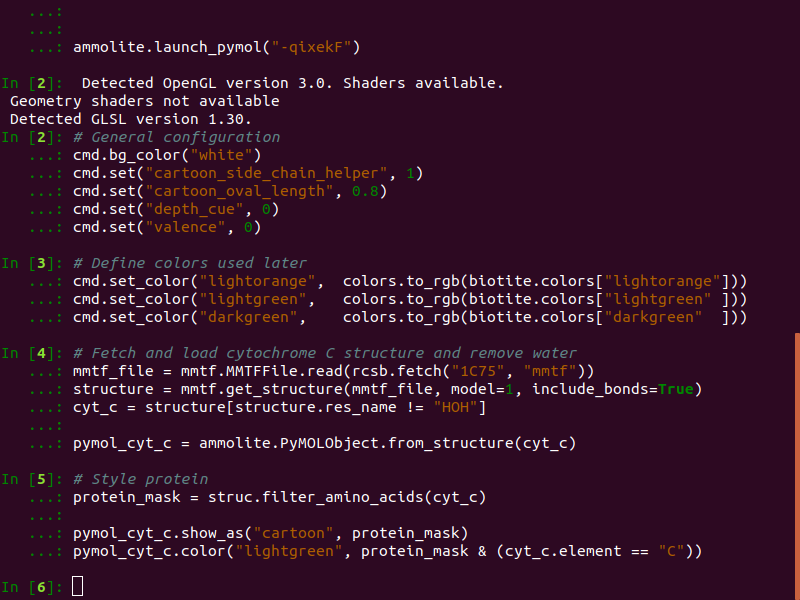
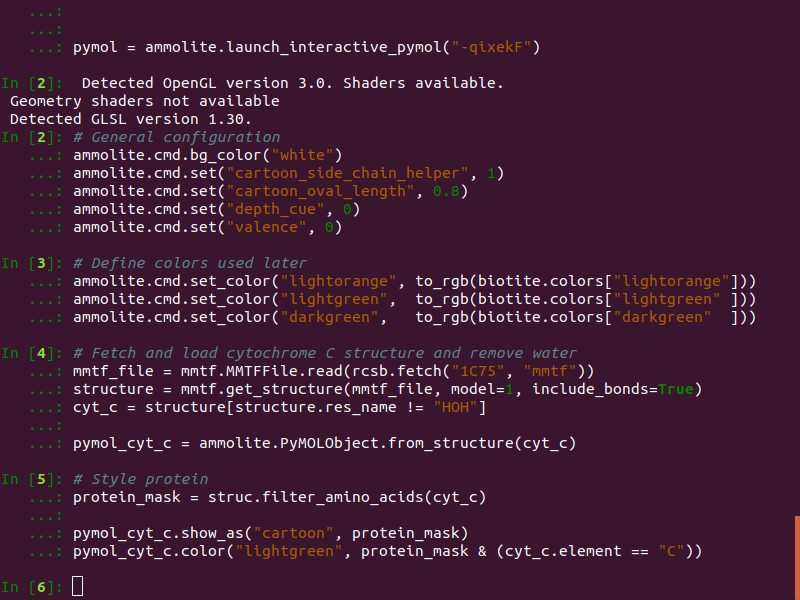
Updated demo

diff --git a/doc/demo/demo.py b/doc/demo/demo.py
@@ -1,30 +1,29 @@
 import numpy as np
-import matplotlib.colors as colors
+from matplotlib.colors import to_rgb
 import biotite
 import biotite.structure as struc
 import biotite.structure.io.mmtf as mmtf
 import biotite.database.rcsb as rcsb
 import ammolite
-from pymol import cmd
 
 
-ammolite.launch_pymol("-qixekF")
+pymol = ammolite.launch_interactive_pymol("-qixekF")
 
 #----------------------------------------------------------------------#
 
 # General configuration
-cmd.bg_color("white")
-cmd.set("cartoon_side_chain_helper", 1)
-cmd.set("cartoon_oval_length", 0.8)
-cmd.set("depth_cue", 0)
-cmd.set("valence", 0)
+ammolite.cmd.bg_color("white")
+ammolite.cmd.set("cartoon_side_chain_helper", 1)
+ammolite.cmd.set("cartoon_oval_length", 0.8)
+ammolite.cmd.set("depth_cue", 0)
+ammolite.cmd.set("valence", 0)
 
 #----------------------------------------------------------------------#
 
 # Define colors used later
-cmd.set_color("lightorange",  colors.to_rgb(biotite.colors["lightorange"]))
-cmd.set_color("lightgreen",   colors.to_rgb(biotite.colors["lightgreen" ]))
-cmd.set_color("darkgreen",    colors.to_rgb(biotite.colors["darkgreen"  ]))
+ammolite.cmd.set_color("lightorange", to_rgb(biotite.colors["lightorange"]))
+ammolite.cmd.set_color("lightgreen",  to_rgb(biotite.colors["lightgreen" ]))
+ammolite.cmd.set_color("darkgreen",   to_rgb(biotite.colors["darkgreen"  ]))
 
 #----------------------------------------------------------------------#
 
